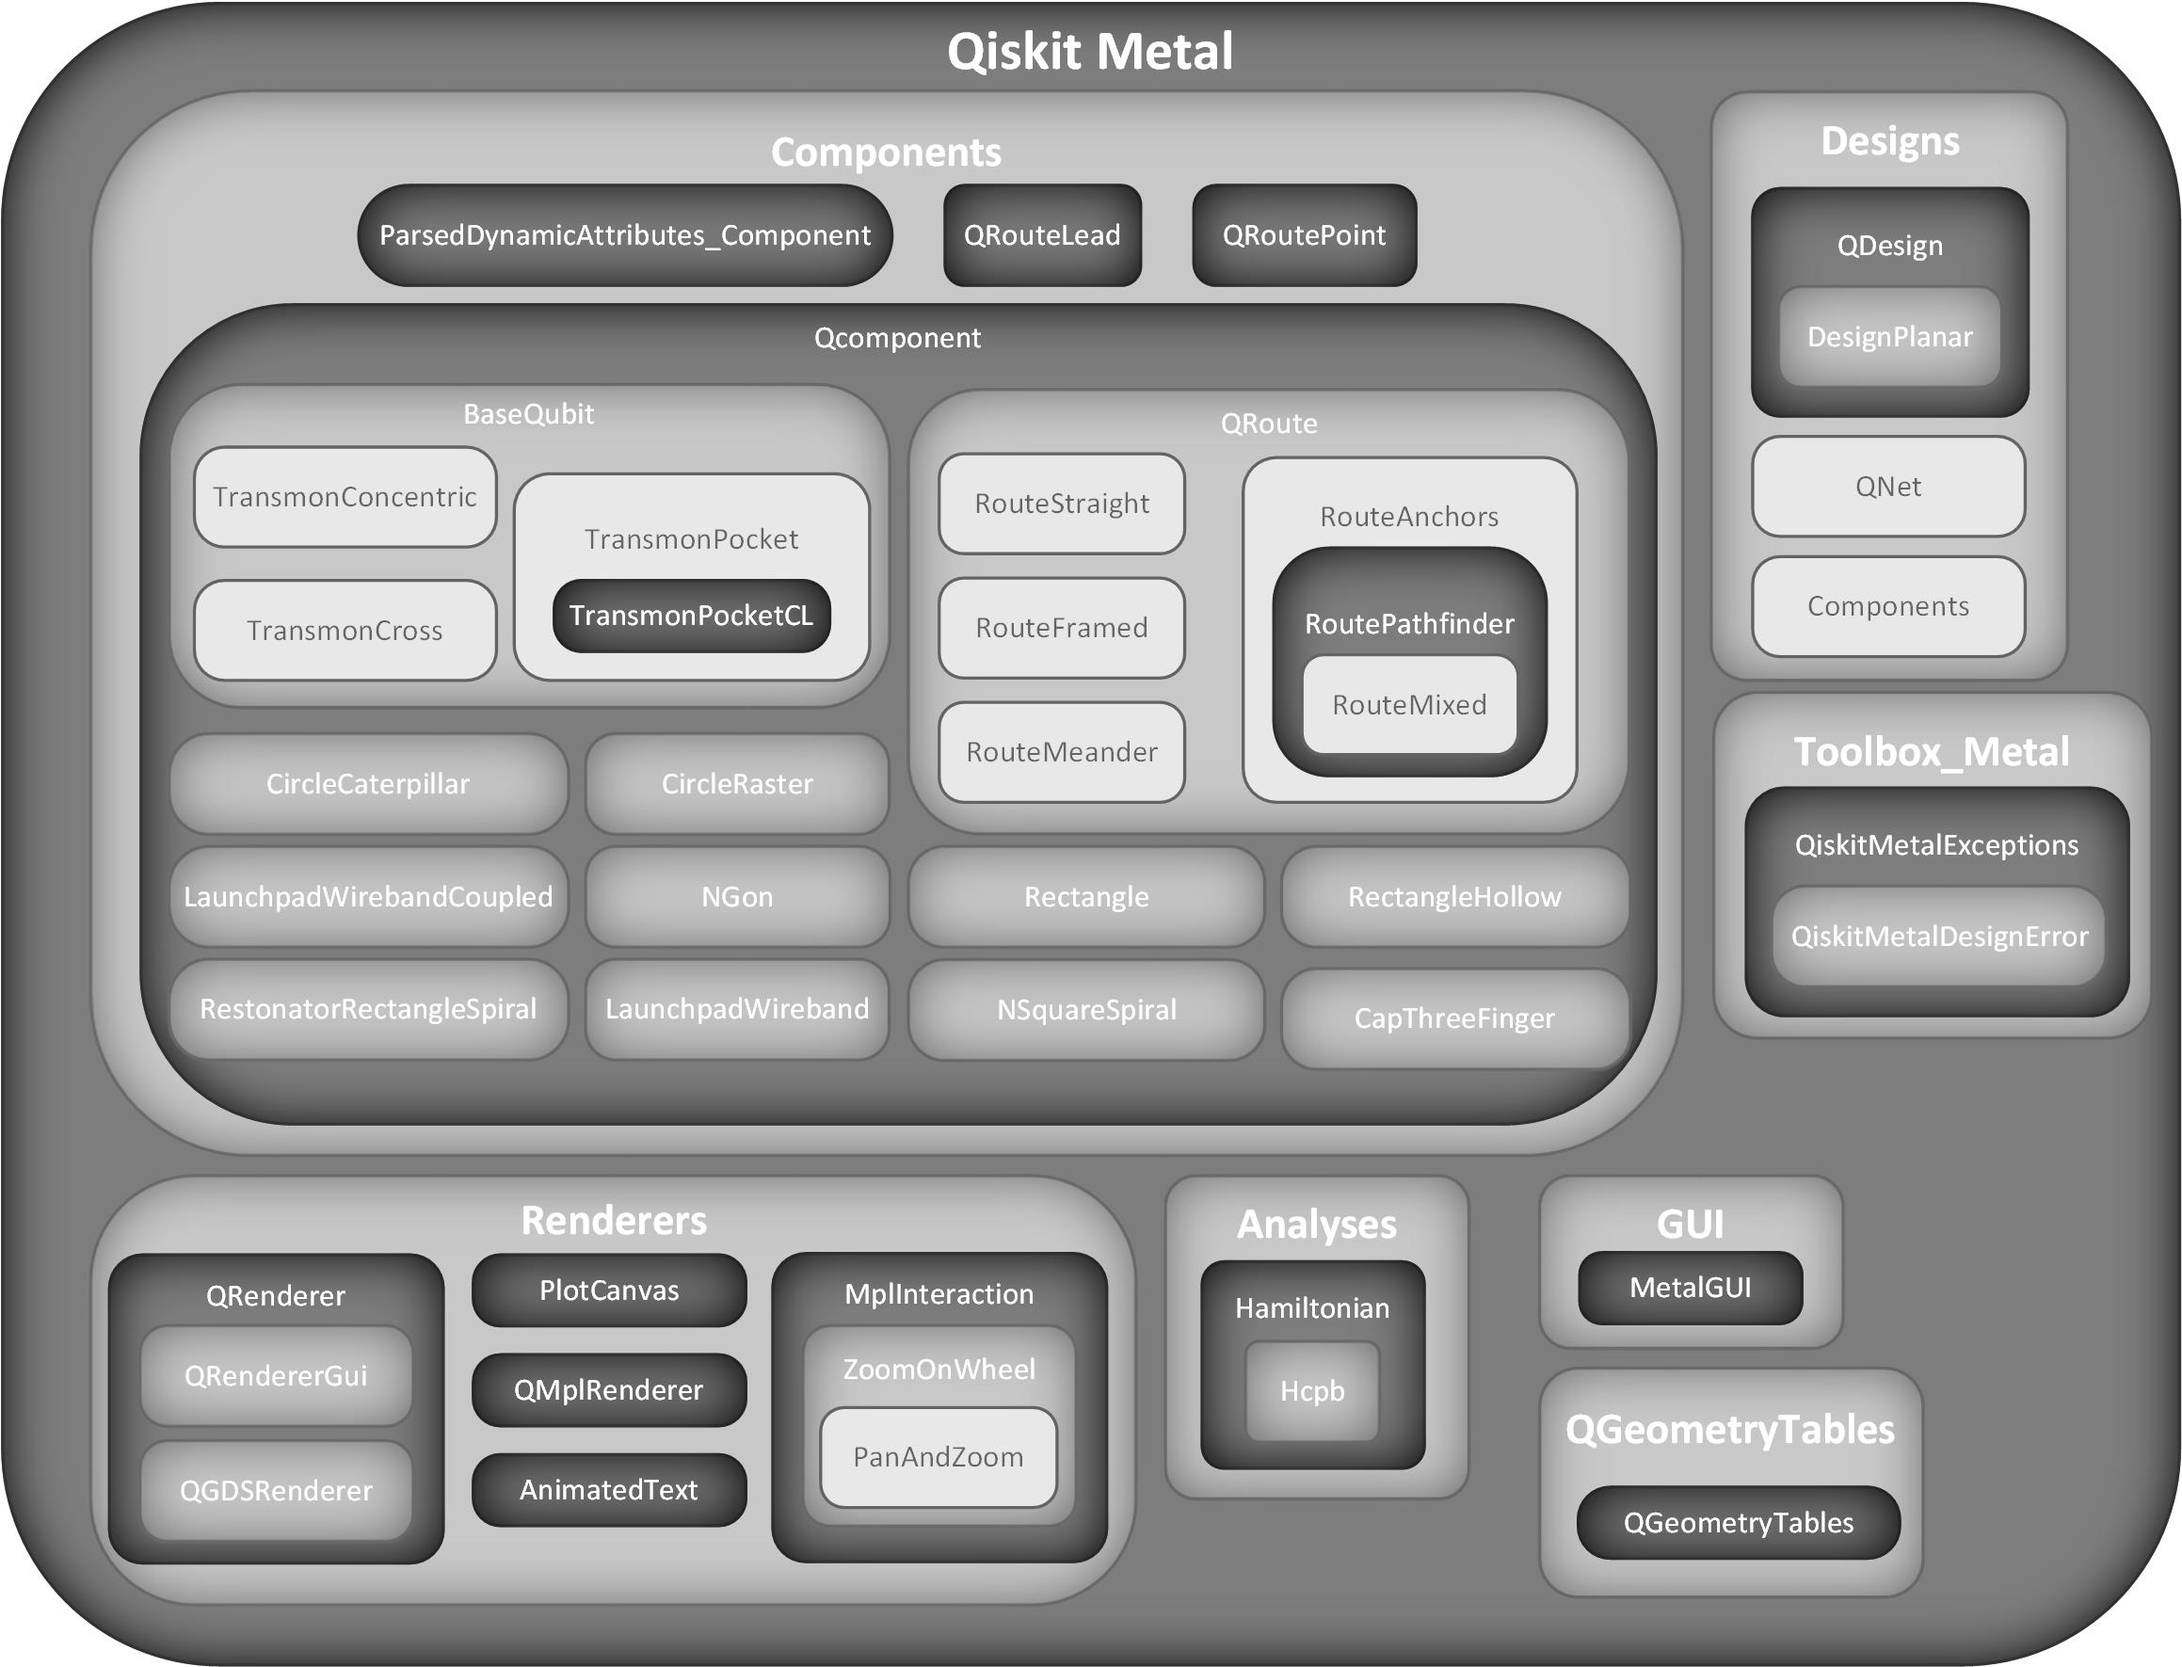
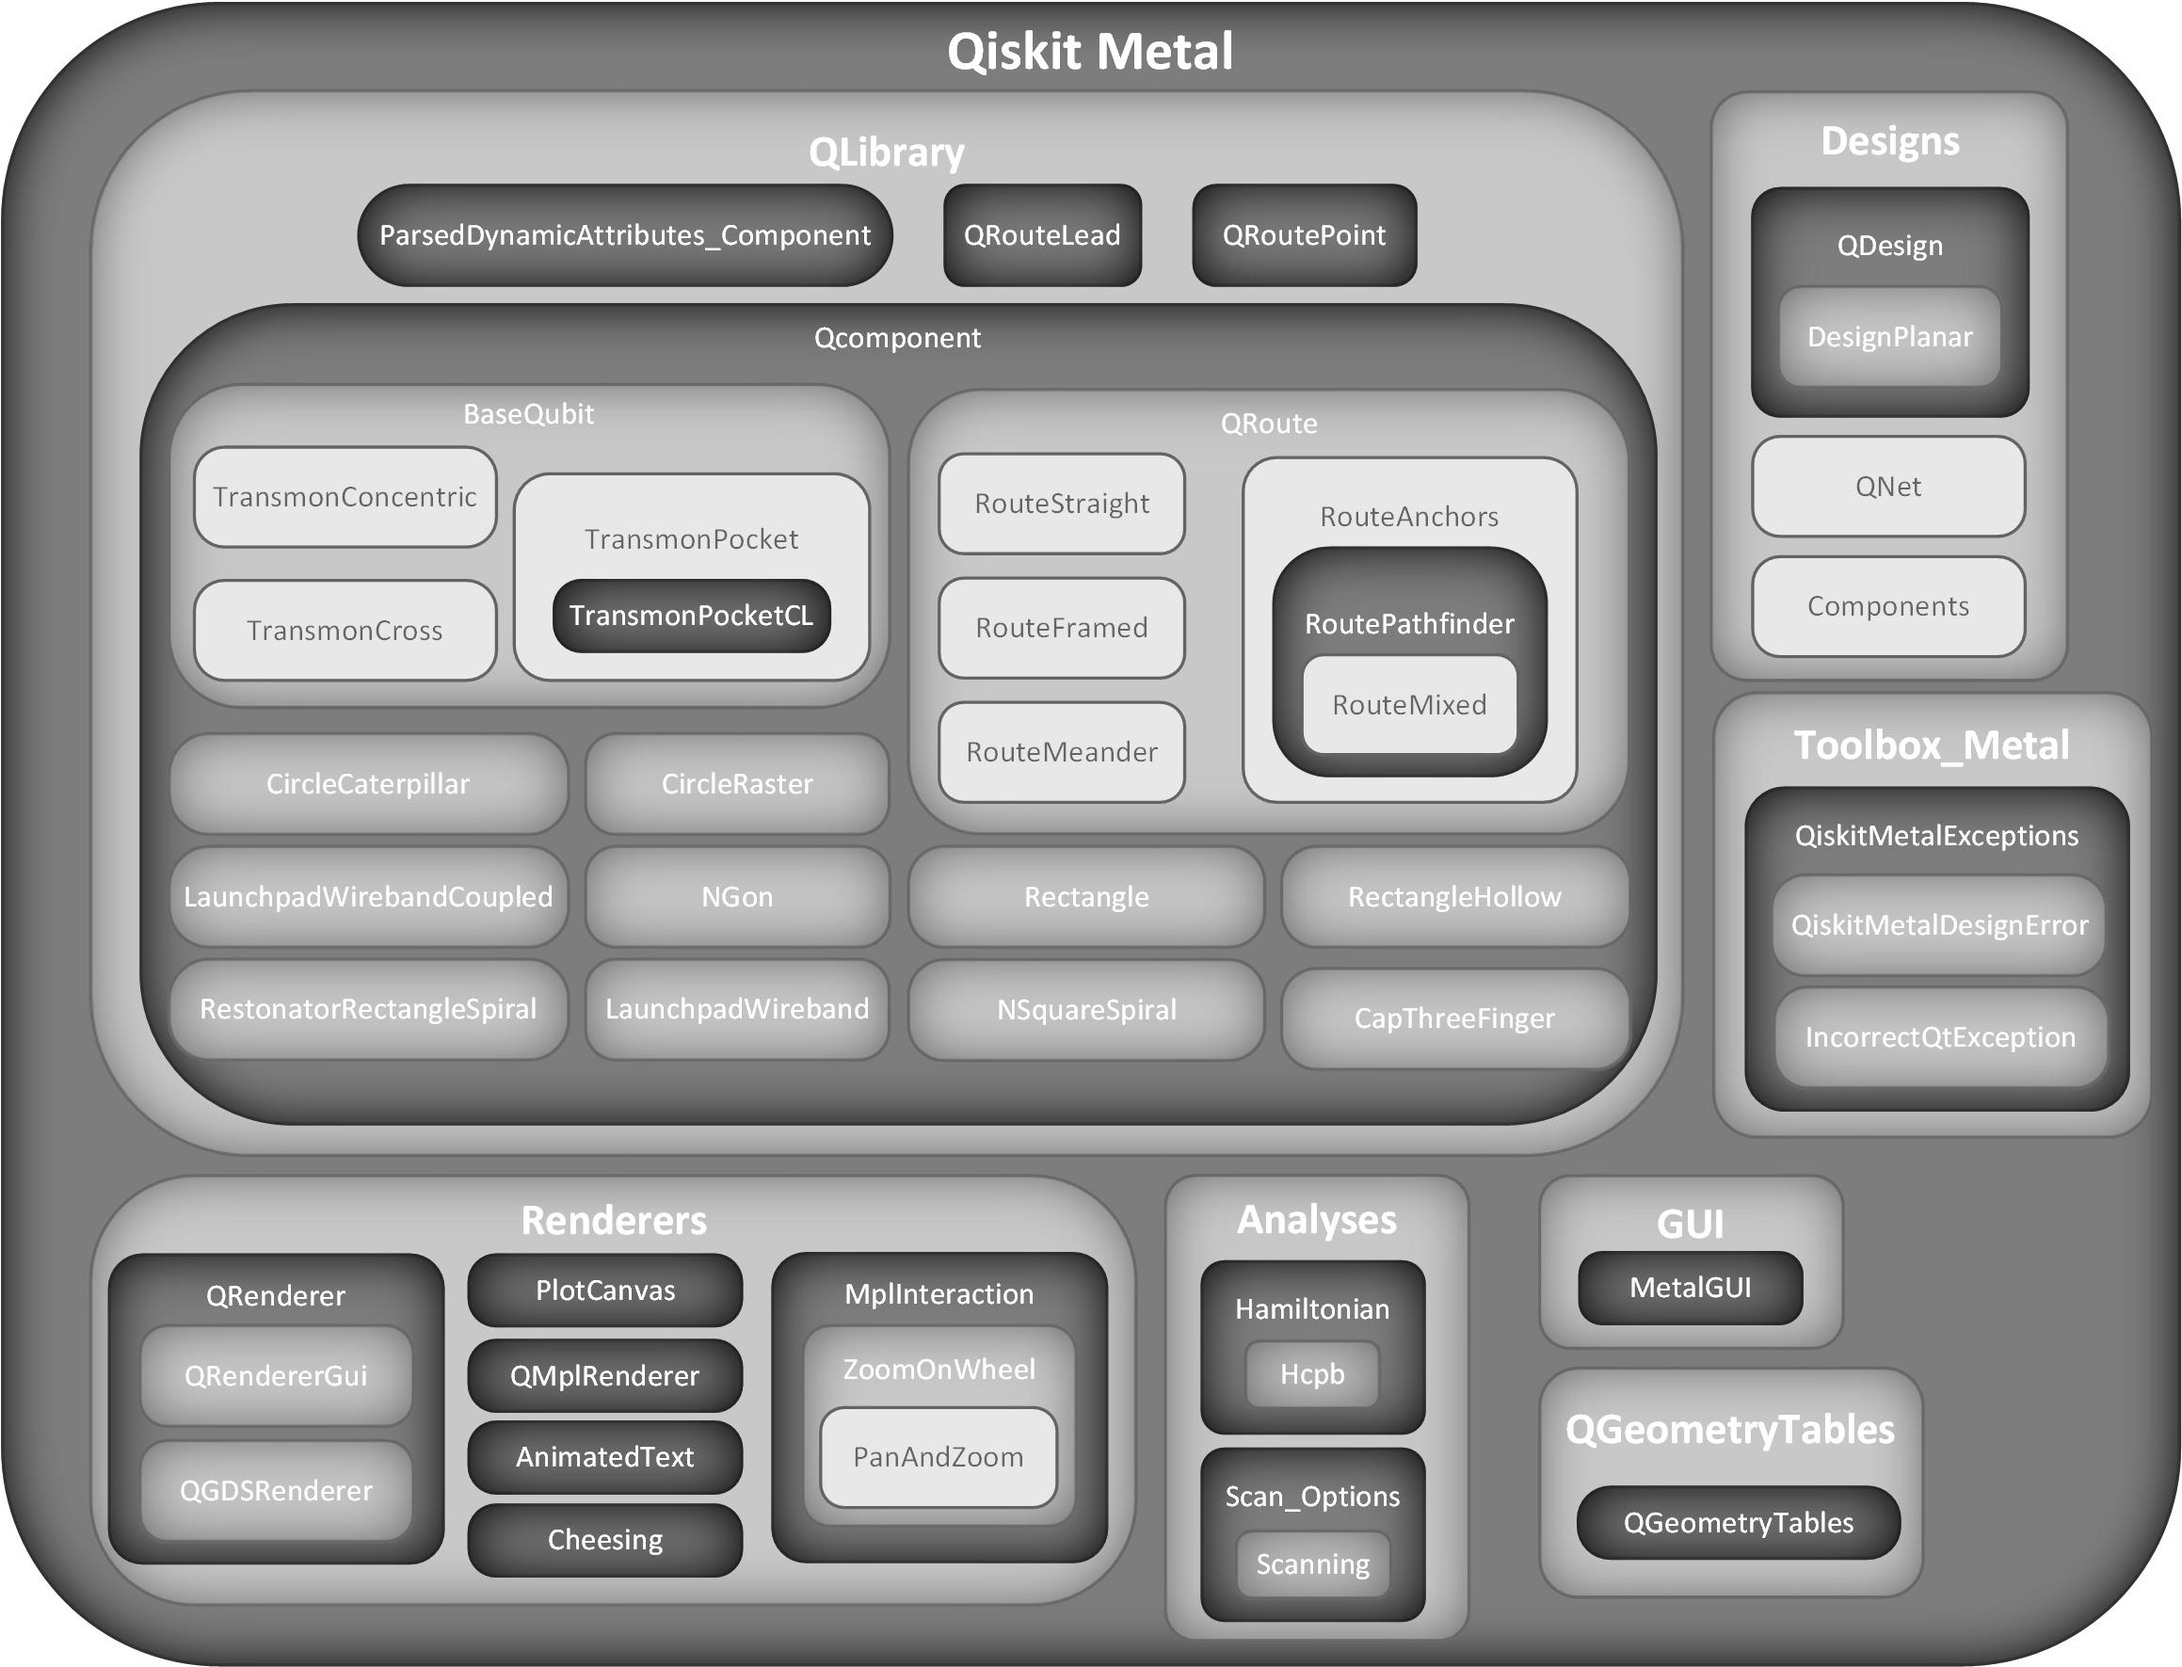
Updated overview graphic and doc

diff --git a/docs/overview.rst b/docs/overview.rst
@@ -17,6 +17,8 @@ Qiskit Metal Overview
      - Description
    * - Hamiltonian
      - Module containing all Qiskit Metal hamiltonian-only analyses.
+   * - Scan_Options
+     - Module containing all Qiskit Metal scan options for analyses.
 
 .. list-table:: Analyses details
    :widths: 10 90
@@ -26,8 +28,10 @@ Qiskit Metal Overview
      - Description
    * - Hcpb
      - Used to model analytically the CPB Hamiltonian quickly and efficiently. Solves tridiagonal eigenvalue problem for arbitrary Ej, Ec, ng values.
+   * - Scan_Options
+     - Need access to renderers which are registered in QDesign.
 
-**Components**
+**QLibrary**
 
 .. list-table:: Components details
    :widths: 10 90
@@ -137,6 +141,8 @@ Qiskit Metal Overview
      - Description
    * - AnimatedText
      - Class that animates text.
+   * - Cheesing
+     - Create a cheese cell based on input of no-cheese locations.
    * - MplInteraction
      - Base class for class providing interaction to a matplotlib Figure.
    * - PanAndZoom
@@ -166,4 +172,5 @@ Qiskit Metal Overview
      - Custom Exception to indicate User action is needed to correct Design Inputs.
    * - QiskitMetalExceptions
      - Custom Exception super-class. Every Exception raised by qiskit-metal should inherit this. Adds the qiskit-metal prefix.
-
+   * - IncorrectQtException
+     - Run PySide2 only
